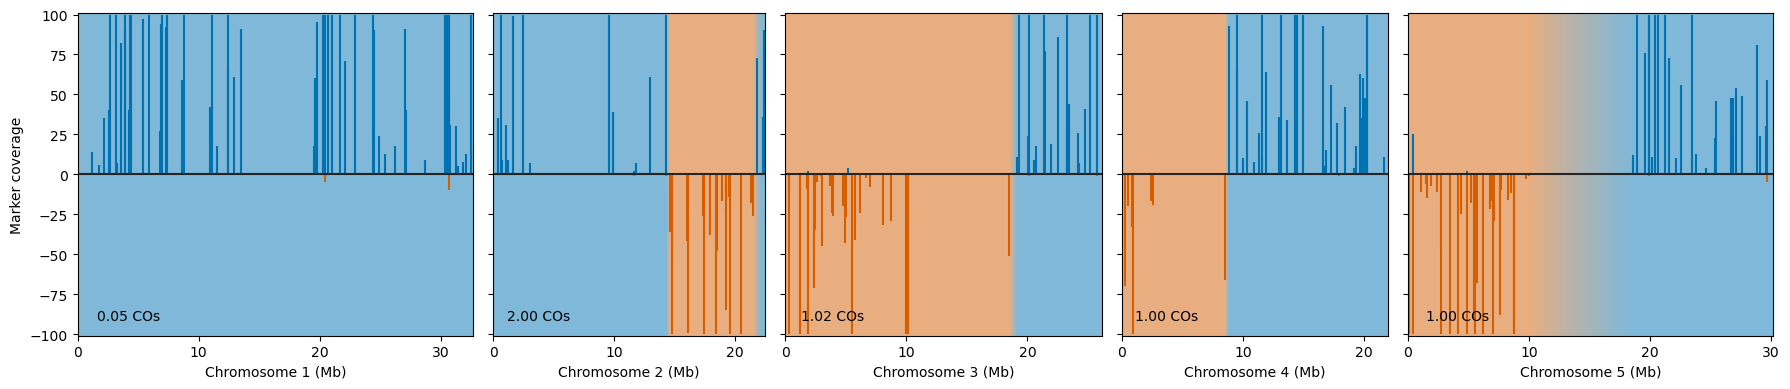
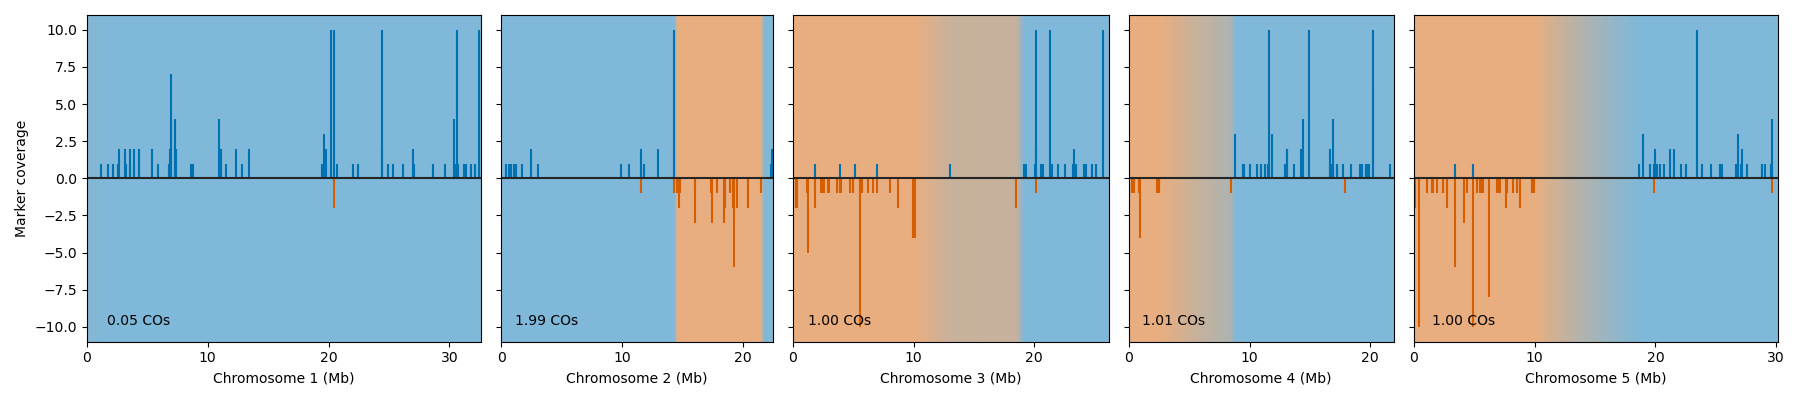
fixed a plot bug, updated readme

Changed region(s): [[0.0, 0.0308, 1.0, 0.9871]]

diff --git a/snco/opts.py b/snco/opts.py
@@ -452,7 +452,7 @@ max_yheight = click.option(
     help='maximum number of markers per bin to plot (higher values are thresholded)'
 )
 
-ref_colour = max_yheight = click.option(
+ref_colour = click.option(
     '--ref-colour',
     required=False,
     type=str,
@@ -460,7 +460,7 @@ ref_colour = max_yheight = click.option(
     help='hex colour to use for reference (hap1) markers'
 )
 
-alt_colour = max_yheight = click.option(
+alt_colour = click.option(
     '--alt-colour',
     required=False,
     type=str,

diff --git a/readme.md b/readme.md
@@ -46,24 +46,19 @@ from snco.plot import single_cell_markerplot
 co_markers = MarkerRecords.read_json('markers.json')
 co_preds = PredictionRecords.read_json('pred.json')
 
-co_markers.seen_barcodes[:10]
+co_markers.seen_barcodes[:5]
 
     ['TGGTTAGGTAGATTGA',
      'ACGTAGTTCATCAGTG',
      'GACCAATCAACAAAGT',
      'CTATAGGGTTACCTTT',
-     'AGAGAATCAGACAATA',
-     'GCCAGCAGTGCCCTTT',
-     'AACGAAAAGCGACAGT',
-     'GATTTCTTCCCATAAG',
-     'TCATGAGTCAGTCACA',
-     'AGATGCTTCGTGGGTC']
+     'AGAGAATCAGACAATA']
 ```
 
 Plotting functions can also accessed both from the command line using `snco plot` and also in python using the `snco.plot`
 
 ```
-single_cell_co_plot('TGGTTAGGTAGATTGA', co_markers, co_preds=co_preds, max_yheight=100);
+single_cell_co_plot('TGGTTAGGTAGATTGA', co_markers, co_preds=co_preds, max_yheight=10);
 ```
 
 ![single nucleus marker plot](images/sn_markerplot_example.png)
